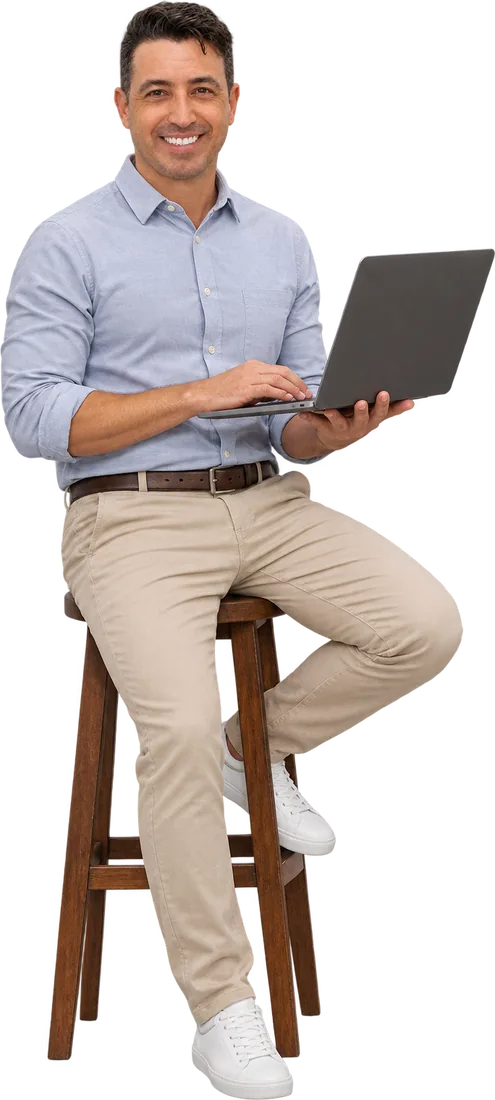
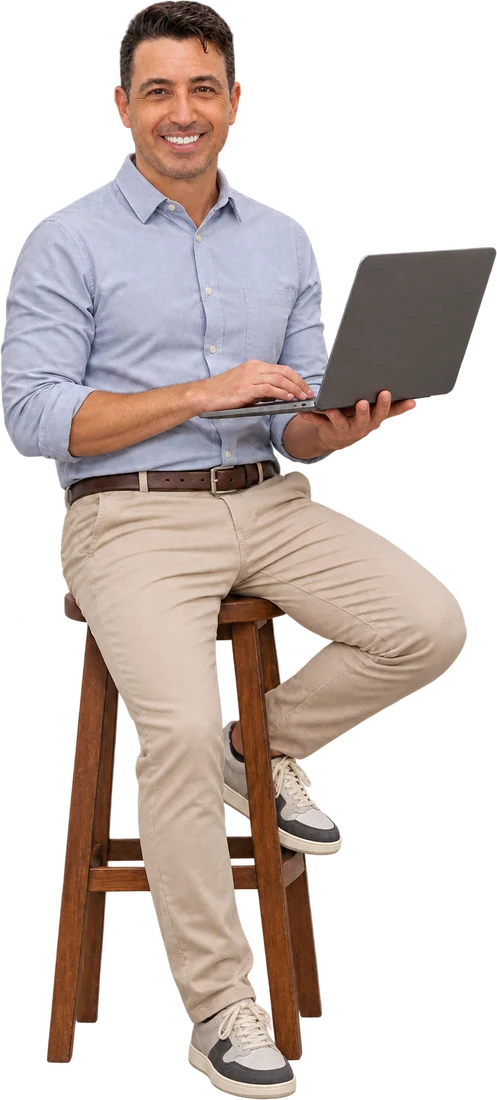
New portraits; keep figure higher in parallax
Claude-Session: https://claude.ai/code/session_01DA7G1jwkCgQrCwWmfyLtfZ

diff --git a/index.html b/index.html
@@ -97,7 +97,7 @@ body.is-profile .ambient{opacity:.35}
 
 
 /* ---------- portrait (Ask view) ---------- */
-.portrait{position:fixed;right:max(1vw,calc((100vw - 1320px)/2));bottom:-2vh;height:min(96vh,1020px);z-index:0;pointer-events:none;will-change:transform;transition:opacity .5s ease,visibility .5s}
+.portrait{position:fixed;right:max(1vw,calc((100vw - 1320px)/2));bottom:2vh;height:min(92vh,980px);z-index:0;pointer-events:none;will-change:transform;transform-origin:50% 100%;transition:opacity .5s ease,visibility .5s}
 .portrait img{height:100%;width:auto;display:block;opacity:.6;filter:blur(1.4px) saturate(.9) contrast(.96);
   -webkit-mask-image:linear-gradient(to bottom,#000 52%,rgba(0,0,0,.55) 74%,transparent 96%);mask-image:linear-gradient(to bottom,#000 52%,rgba(0,0,0,.55) 74%,transparent 96%)}
 .portrait::before{content:"";position:absolute;inset:8% -12% 20% -12%;background:radial-gradient(closest-side,var(--signal-soft),transparent 70%);z-index:-1;opacity:.9}
@@ -279,8 +279,8 @@ footer h2{font-size:clamp(40px,7vw,60px);font-weight:800}
 <body>
 <div class="ambient" aria-hidden="true"><i></i><i></i></div>
 <canvas id="net" aria-hidden="true"></canvas>
-<div class="portrait portrait-ask" aria-hidden="true"><img src="fran.webp" alt="" width="379" height="1100" decoding="async"></div>
-<div class="portrait portrait-profile" aria-hidden="true"><img src="fran-laptop.webp" alt="" width="495" height="1100" decoding="async"></div>
+<div class="portrait portrait-ask" aria-hidden="true"><img src="fran.webp" alt="" width="382" height="1100" decoding="async"></div>
+<div class="portrait portrait-profile" aria-hidden="true"><img src="fran-laptop.webp" alt="" width="497" height="1100" decoding="async"></div>
 
 <div class="topbar">
   <div class="wrap">
@@ -1319,7 +1319,7 @@ let netRun=()=>{};
   }
   addEventListener("scroll",targets,{passive:true});
   addEventListener("resize",targets,{passive:true});
-  addEventListener("pointermove",e=>{if(e.pointerType!=="mouse")return; mx=(e.clientX/innerWidth-.5)*-44; my=(e.clientY/innerHeight-.5)*-26; targets()},{passive:true});
+  addEventListener("pointermove",e=>{if(e.pointerType!=="mouse")return; mx=(e.clientX/innerWidth-.5)*-44; my=Math.min(0,(e.clientY/innerHeight-.5)*-26); targets()},{passive:true});
   addEventListener("hashchange",()=>setTimeout(targets,30));
   targets();
 })();
